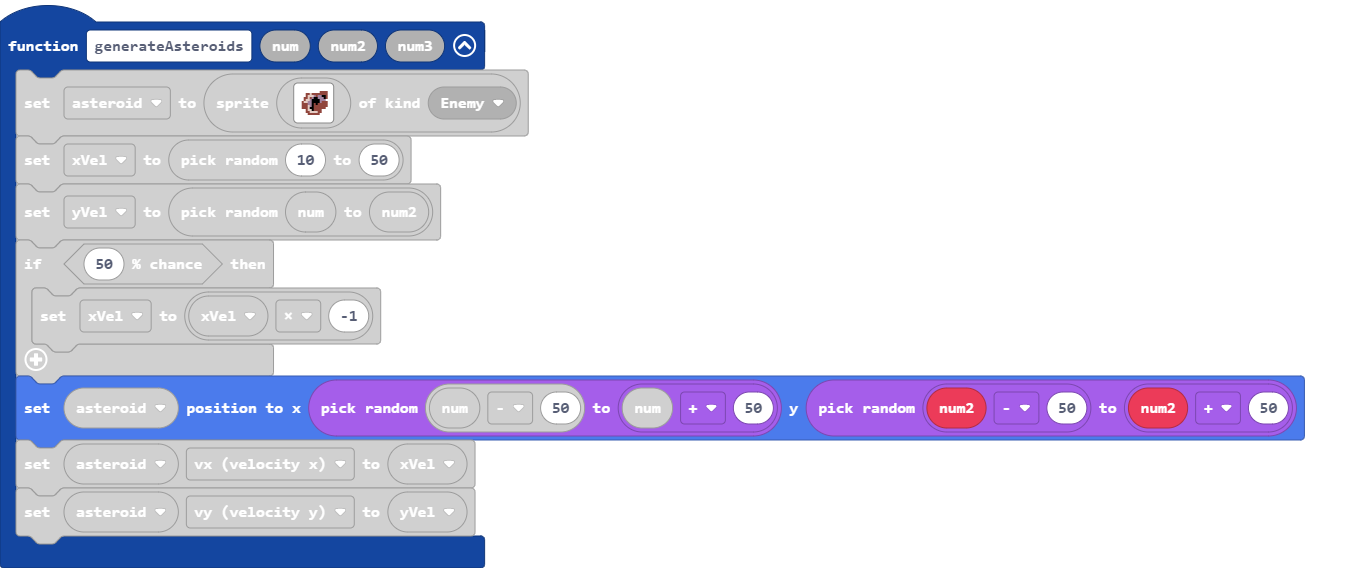
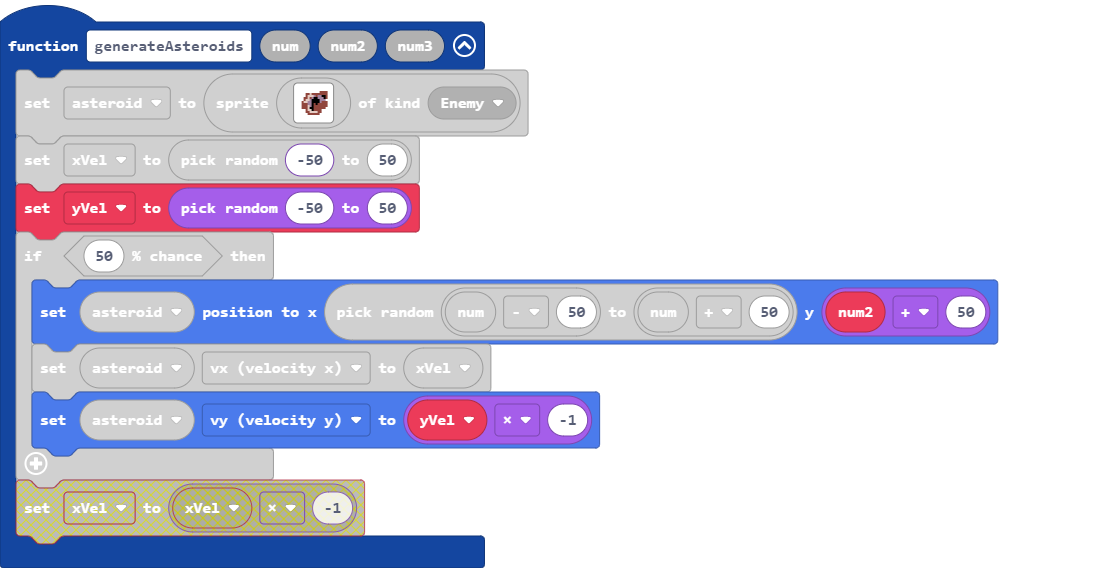
Update main.blocks, main.ts

diff --git a/main.ts b/main.ts
@@ -32,14 +32,13 @@ function generateAsteroids (num: number, num2: number, num3: number) {
         . . . . . . . . . . . . . . . . 
         . . . . . . . . . . . . . . . . 
         `, SpriteKind.Enemy)
-    xVel = randint(10, 50)
-    yVel = randint(num, num2)
+    xVel = randint(-50, 50)
+    yVel = randint(-50, 50)
     if (Math.percentChance(50)) {
-        xVel = xVel * -1
+        asteroid.setPosition(randint(num - 50, num + 50), num2 + 50)
+        asteroid.vx = xVel
+        asteroid.vy = yVel * -1
     }
-    asteroid.setPosition(randint(num - 50, num + 50), randint(num2 - 50, num2 + 50))
-    asteroid.vx = xVel
-    asteroid.vy = yVel
 }
 sprites.onOverlap(SpriteKind.Player, SpriteKind.BlackHole, function (sprite, otherSprite) {
     sprite.destroy(effects.spray, 200)
